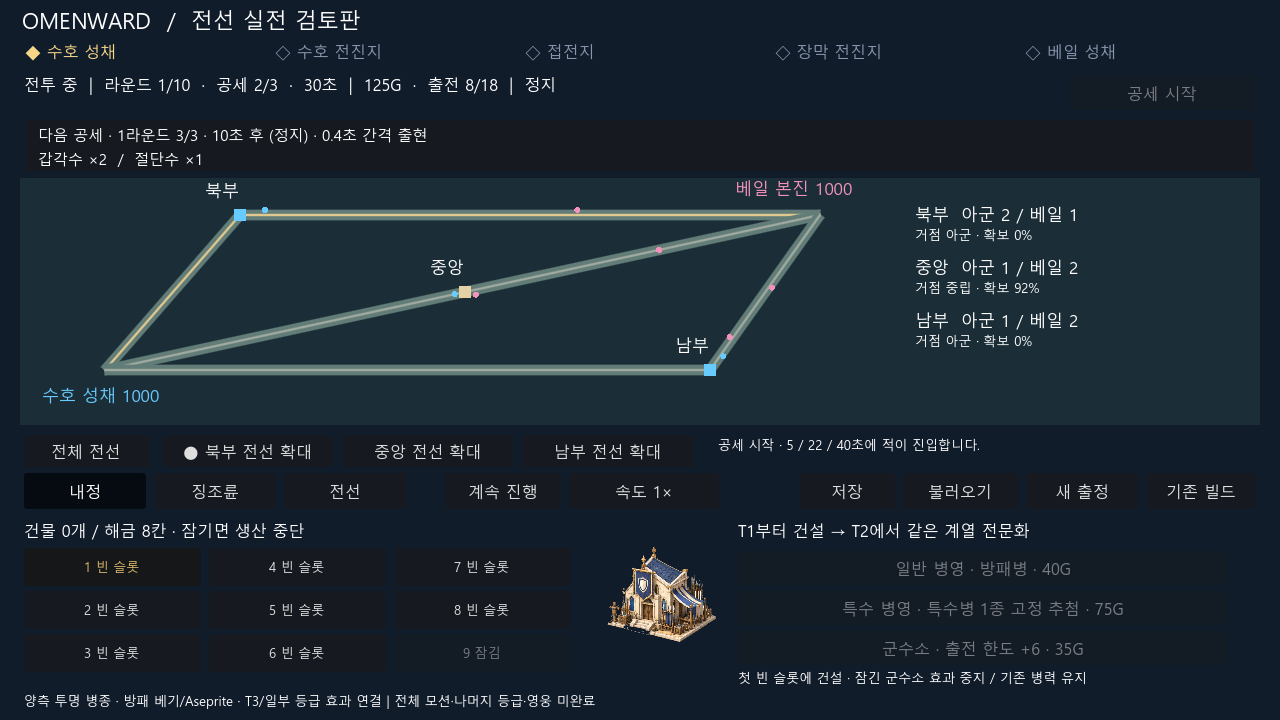
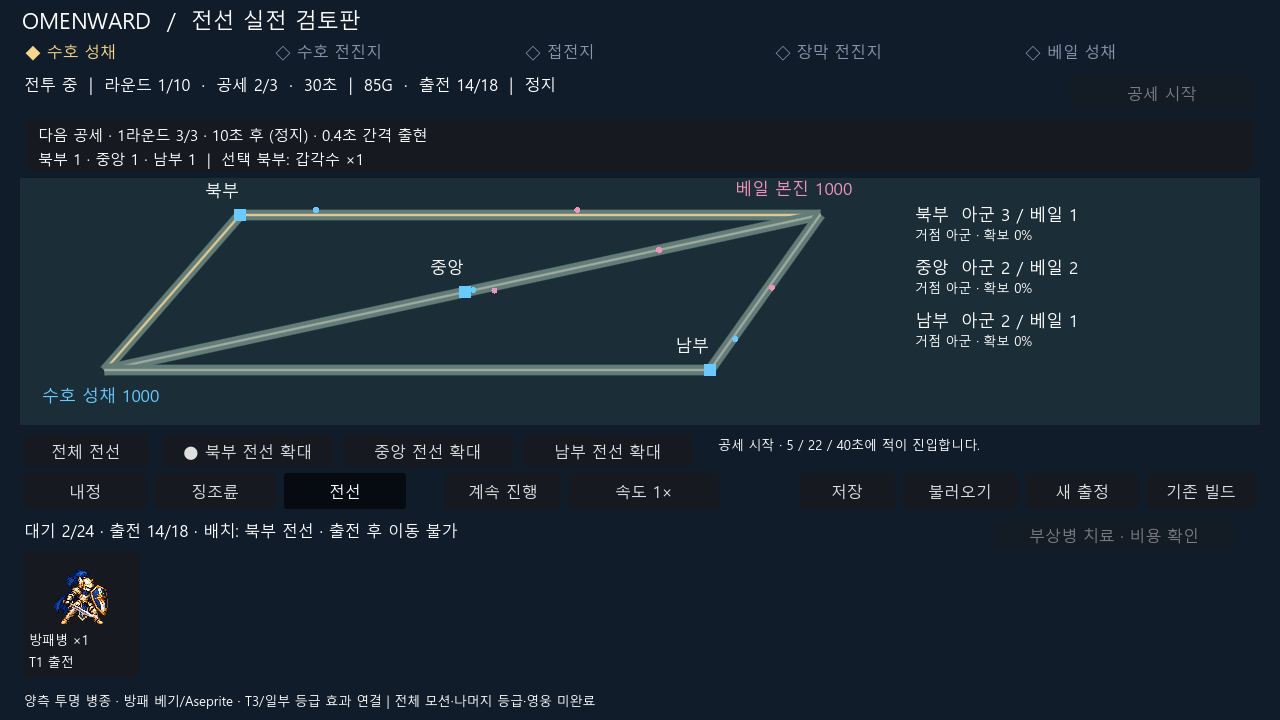
feat: show frontline wave forecast and verify first-map flow

diff --git a/tools/replan_scope.py b/tools/replan_scope.py
@@ -13,6 +13,8 @@ from project_operating import project_router, selected_source_errors
 APPROVAL = 'docs/process/APPROVED_REPLAN_UI_MOTION_BUILD_SCOPE_20260911.md'
 # Exact files only: adding a sibling module requires a reviewed scope amendment.
 ALLOWED = {
+    'output/front-first-map-prepare.png', 'output/front-first-map-refit.png',
+    'output/front-first-map-result.png',
     'output/front-overview.png', 'output/front-inspection.png',
 	'output/front-demolition.png',
     'output/front-tier3.png',

diff --git a/docs/superpowers/plans/2026-09-11-visible-battle-slice.md b/docs/superpowers/plans/2026-09-11-visible-battle-slice.md
@@ -600,3 +600,16 @@ Recommended implementation detail under delegated authority: existing three cont
 ADAPT Riot's three routes between shared bases and overview readability; REJECT its three towers per lane, jungle and hero economy. Source: https://www.leagueoflegends.com/en-sg/how-to-play/ . ADOPT Godot CanvasItem dynamic indicators for the functional minimap, not replacement raster art: https://docs.godotengine.org/en/stable/classes/class_canvasitem.html . Reuse current transparent units and battle backdrop in inspection.
 
 Order: (1) model/save RED tests for isolation/capture/towers/dispatch/roundtrip/legacy/future markers; (2) minimum front field and point mapping; (3) overview/select/back UI and runtime inspection; (4) whole regression and independent five-pass review; (5) append 2026-09-16 daily summary to the existing monthly worklog/PDF, no new versioned worklog; (6) push the current task branch and exact-head CI readback. Do not bypass protected main or integrate unrelated PRs.
+# 2026-09-20 현재 승인 묶음: 통합 준비 + 첫 맵 정보/입력 검증
+
+기존 계획 누적. 게임 수치/저장/자산 승인과 다른 작업 폴더를 보호한다. 부모 PR258의 정확한 준비 파일 분류와 PDF 바이너리 교정을 연결했다. PR258/259는 Draft 유지하며 이번 묶음으로 전체 병합을 승인한 것으로 보지 않는다.
+
+실행 순서: 기존 Godot gate → 예보 회귀 테스트 RED → 실제 순환 배분 그대로 전선별 읽기 전용 예보/UI → 신규 출정의 건설/징조륜/전선 선택/배치/전투/재정비/결과를 실제 화면·공개 조작 경로로 확인 → 독립 검토/범위 검사/원격 정확한 HEAD 확인. 기존 전체 gate PASS, 저장 59 checks PASS, 화면 PASS를 확인한 뒤 시작했다.
+
+재미 가설 F1: 플레이어가 어느 전선으로 증원할지 예보·현재 병력을 보고 설명할 수 있다. 반례: 숫자만 보고도 전선 배분을 오해하거나 확대 후 다른 전선이 멈춘다고 생각한다. 자동 검사는 예보/실제 배분 일치와 화면 전환의 무변경만 확인한다. F2: 시설/징조륜 선택의 자원 비용과 실제 입대 결과가 이해된다. F3: 재정비의 회복/건설 선택이 다음 공세 대응으로 이어진다. 사람 관찰은 첫 맵 한 판에서 선택 이유·예상과 실제 차이·반복 피로를 짧게 기록하며 현재 HUMAN_NOT_RUN이다. 화면 캡처/AI 평가로 재미 PASS를 선언하지 않는다.
+
+실행 근거: 첫 예보의 전선 키 누락 RED → `wave_forecast().fronts`의 실제 병종 순서/공세 offset 순환 배분 → 화면의 전선별 합계/선택 병종 및 legacy 회귀 GREEN. 초기 숫자를 잘못 가정한 테스트는 실제 pressure0.4의 2갑각수+1절단수로 교정했다(전선별1명); 제품 수치는 건드리지 않았다. 예보 query는 snapshot/RNG를 변경하지 않고 반환 배열 수정은 모델에 전파되지 않는다.
+
+Godot4.7.1 `tools/validate_replan_slice.ps1` 전체 local gate PASS(모델, 저장59, 화면, 기본씬). Python 기획 관련63개와 BUILD exact scope9개 PASS. GPU `--first-map-only`는 병영1개/초기120G에서 정상40G 지불, 정상 무료 징조, 적은 아군 수 전선으로 실제 배치, 실제 마우스 확대/버튼 복귀, 재정비2회 후 3라운드 본진 점령으로 끝났다. 251G/아군 본진1000; 회복·특화·다른 정책 또는 모든 맵 성공 근거는 아니다. 화면은 `output/front-first-map-prepare.png`, `front-overview.png`, `front-inspection.png`, `front-first-map-refit.png`, `front-first-map-result.png`. capture의 UI 갱신 지연은 촬영 전 기존 refresh 호출로 보정했으며 제품 UI를 우회해 규칙을 바꾸지 않았다.
+
+독립 검토1/2: 준비 모드가 작은 운영-only 변경을 가로채는 P2 발견 → 부모8810ae00에서 기존 모드 우선순위 보존, 동일반례 RED→GREEN. 그 외 제품 수치/저장/승인 자산 변경 없음. 사람 재미·접근성·기기·최종아트·전체캠페인·release NOT_RUN. 실제 원본 Base 보호경로 FAIL9개와 승인된 PROJECT_SCOPED_BUILD PASS를 함께 유지한다.

diff --git a/docs/ACTIVE_CONTEXT.md b/docs/ACTIVE_CONTEXT.md
@@ -1,5 +1,7 @@
 # [현행] OMENWARD Active Context
 
+2026-09-20 첫 맵 정보 검토: 다음 공세의 북부/중앙/남부 배정 수와 선택 전선 병종을 실제 출현 순환 규칙에서 읽기 전용으로 표시한다. 기존 구형 저장의 전체 예보는 유지한다. 첫 맵은 시작 자원 그대로 병영 건설→징조륜→전선 분산 배치→실제 미니맵 클릭/확대/복귀→재정비2회→3라운드 본진 점령 승리를 GPU로 확인했다(251G, 아군 본진1000). 고정 시계 가속 자동 정책이며 인간 재미·밸런스 통과 아님. 모델/저장59/화면/기본씬 gate PASS, 기획63+BUILD scope9 Python 검사 PASS. 원본 Base 보호경로 FAIL과 승인 PROJECT_SCOPED_BUILD PASS를 구별한다. 독립 검토의 준비 모드 우선순위 P2는 8810ae00에서 반례 회귀로 교정했다. 실제 계획/증거는 `docs/superpowers/plans/2026-09-11-visible-battle-slice.md` 9/20 절. PR258/259는 Draft, main 미병합. 다음: 3전선 선택 이유의 사람 관찰 + 첫 맵 반복/다른 정책 확인 후 P04 잔여 계약 순서; 신규 아트/규칙 조정은 이번 범위 밖이다.
+
 > 2026-09-20 현재 승인 작업: [통합 준비·첫 맵 검토](design/OMENWARD_REPLAN_AND_MOTION_INTAKE_2026-09-10.md#2026-09-20-승인된-통합-준비와-첫-맵-검토). 이 planning 브랜치와 후속 BUILD PR259를 구분한다. 현행 제품 방향은 3전선 동시 진행 / 기본 전체 미니맵 / 선택 전선 확대이며 아래 단일전선·구현 보류 기록은 역사다. 실제 최신 구현·시험 근거는 PR259의 기존 visible-battle 계획에서 읽는다. 이번 준비가 전체 PR 병합·최종 자산 승인 권한을 추가하지 않는다.
 
 > 2026-09-20 운영 개선: [Base 선택 채택·재미 검증 연결·작업 순서](BASE_RULES_VERSION.md). v9.4.3 lock과 기존 제품 승인/구현 상태는 유지한다. 최신 게임 작업 브랜치를 main 구현 완료로 간주하지 않는다. 운영 진척과 검증은 이 링크에 누적한다.

diff --git a/docs/OMENWARD_ROADMAP.md b/docs/OMENWARD_ROADMAP.md
@@ -1,5 +1,7 @@
 # [현행] OMENWARD Roadmap
 
+2026-09-20 통합 준비와 첫 맵 정보/조작 검토를 기존 계획에 누적했다. 다음 공세 배정 표시, 동일 시뮬레이션의 확대/복귀, 실자원 첫 맵 자동 정책의 종결까지 연결됐다. 사람 재미·다른 조작 정책·후속 맵 균형은 미검증이다. 다음 순서: 첫 맵의 증원 선택/원인 이해 관찰 및 필요한 한정 교정 → P04 잔여 등급/비재귀 사건·저장 계약 → P05 영웅 → P06~P09. 이번 묶음은 기획/게임 Draft 전체 병합이나 출시 승인이 아니다.
+
 2026-09-16 사용자 우선 요청: 3전선 복귀, 기본 미니맵과 선택 전선 확대를 구현하고 기존 월간 일지에 당일 요약을 누적한 뒤 작업 브랜치를 동기화한다. 현재 검증/통합 결과는 Active Context를 따른다. 다음 기능 작업은 이 구조에서 P04 잔여 등급·비재귀 사건/저장 계약 → P05 영웅 → P06~P09 UI·아트/모션·전체 원정 검증 순서이며, 이번 요청을 전체 게임 완료로 표시하지 않는다.
 
 2026-09-14 P04 선행 범위선택 교정 완료(435모델/55저장/UI·기본실행): 전방 대검, 거리→ID 제한 타격, 구형 숫자ID 타이브레이크. 다음 등급 효과 구현 시 이 공통 선택 경계를 재사용하고 secondary/counter 비재귀·중복 방지·저장 재개 계약부터 연결한다. 새 GPU/Human/main 증거는 없음.

diff --git a/docs/process/APPROVED_REPLAN_UI_MOTION_BUILD_SCOPE_20260911.md b/docs/process/APPROVED_REPLAN_UI_MOTION_BUILD_SCOPE_20260911.md
@@ -73,3 +73,6 @@ Latest shield continuation: model55 checks, screen/save/native timing, default s
 # 2026-09-16 user-approved amendment
 
 The latest user explicitly returns to three fronts: strategic minimap default and selected single-front enlarged inspection. Extend the existing model/screen/save/test owners only, with exact GPU evidence `output/front-overview.png` and `output/front-inspection.png`. Preserve older single-front saves and Base lock/protected-main rules. Existing monthly worklog is updated cumulatively by date; do not create another versioned journal for this task.
+# 2026-09-20 첫 맵 검토 증거 범위
+
+기존 승인된 통합 준비/3전선 첫 맵 검토에서 `tests/replan_capture.gd --first-map-only`와 `output/front-first-map-prepare.png`, `output/front-first-map-refit.png`, `output/front-first-map-result.png`를 기존 exact BUILD 목록에 추가한다. 기존 overview/inspection 캡처는 이번 검토로 갱신한다. 새 게임 자원 그대로 실제 UI 콜백과 고정 시계로 조작하며 진도·체력·골드·난수 결과 주입 없이 종결 상태를 확인한다. 화면 관측 및 자동 정책은 사람 플레이/재미/밸런스 통과가 아니다. 수치·아트·저장 스키마는 변경하지 않는다.
